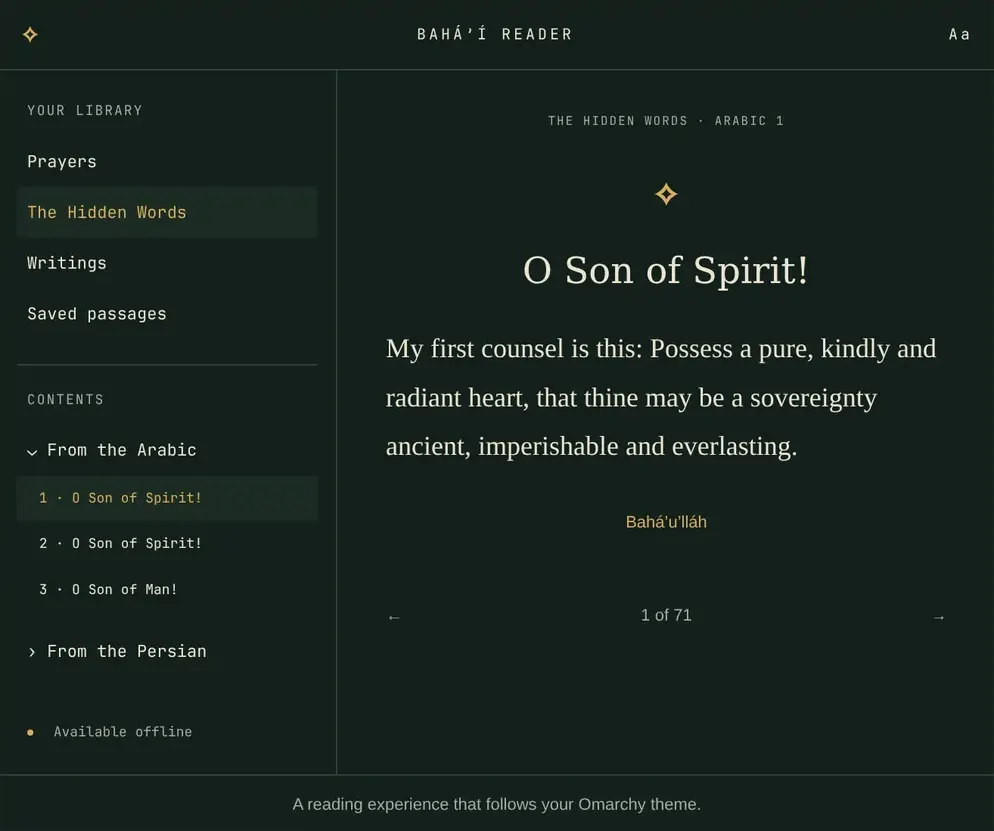
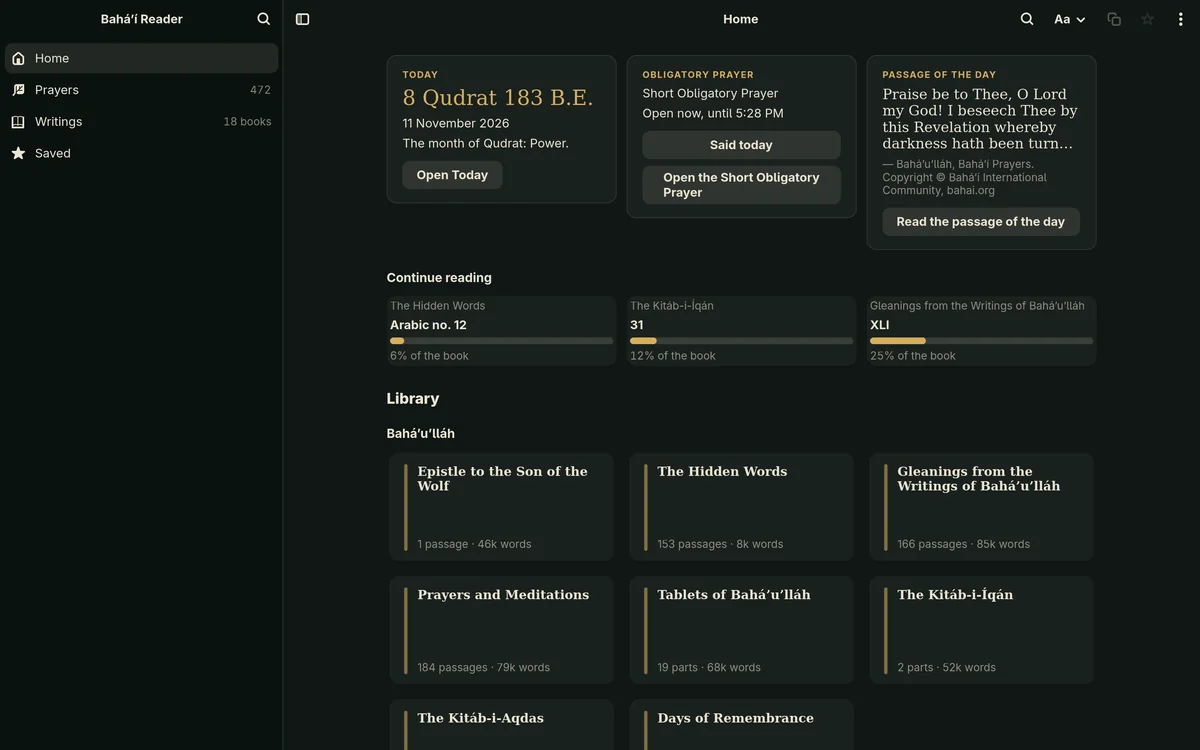
Bahá’í Reader card: the 0.2.1 window, libadwaita, and current copy (#18)

diff --git a/index.html b/index.html
@@ -135,13 +135,13 @@
 
             <a class="card span-12 card-wide" id="bahai-reader" href="https://bahaireader.org" style="--c: #d9ae5b">
               <div class="body">
-                <p class="meta"><b>04</b><span>Desktop app · GTK 4</span></p>
+                <p class="meta"><b>04</b><span>Desktop app · libadwaita</span></p>
                 <h3>Bahá’í Reader</h3>
                 <p class="tagline">A quiet place for the Writings.</p>
-                <p>An offline prayer book and Writings reader for Linux. Packages for Arch, Debian, Fedora and openSUSE, plus AppImage and Flatpak. Follows your Omarchy colours live.</p>
+                <p>An offline prayer book and library of the Bahá’í Writings for Linux: 472 prayers and 18 books, with search, highlights and notes, and a focus mode. Packages for Arch, Debian and Fedora, plus AppImage and Flatpak. Follows your Omarchy colours live.</p>
                 <p class="go">bahaireader.org</p>
               </div>
-              <figure class="shot"><img src="assets/projects/bahai-reader.webp" alt="Bahá’í Reader open to the first of the Hidden Words" width="994" height="831" loading="lazy" /></figure>
+              <figure class="shot"><img src="assets/projects/bahai-reader.webp" alt="Bahá’í Reader’s Home: today’s Badí‘ date, the obligatory prayer, the passage of the day, Continue reading, and the library of books grouped by author" width="1200" height="750" loading="lazy" /></figure>
             </a>
 
             <a class="card span-12 card-wide" id="dogear" href="https://dogear.ninepointlabs.com" style="--c: #f5d547">
